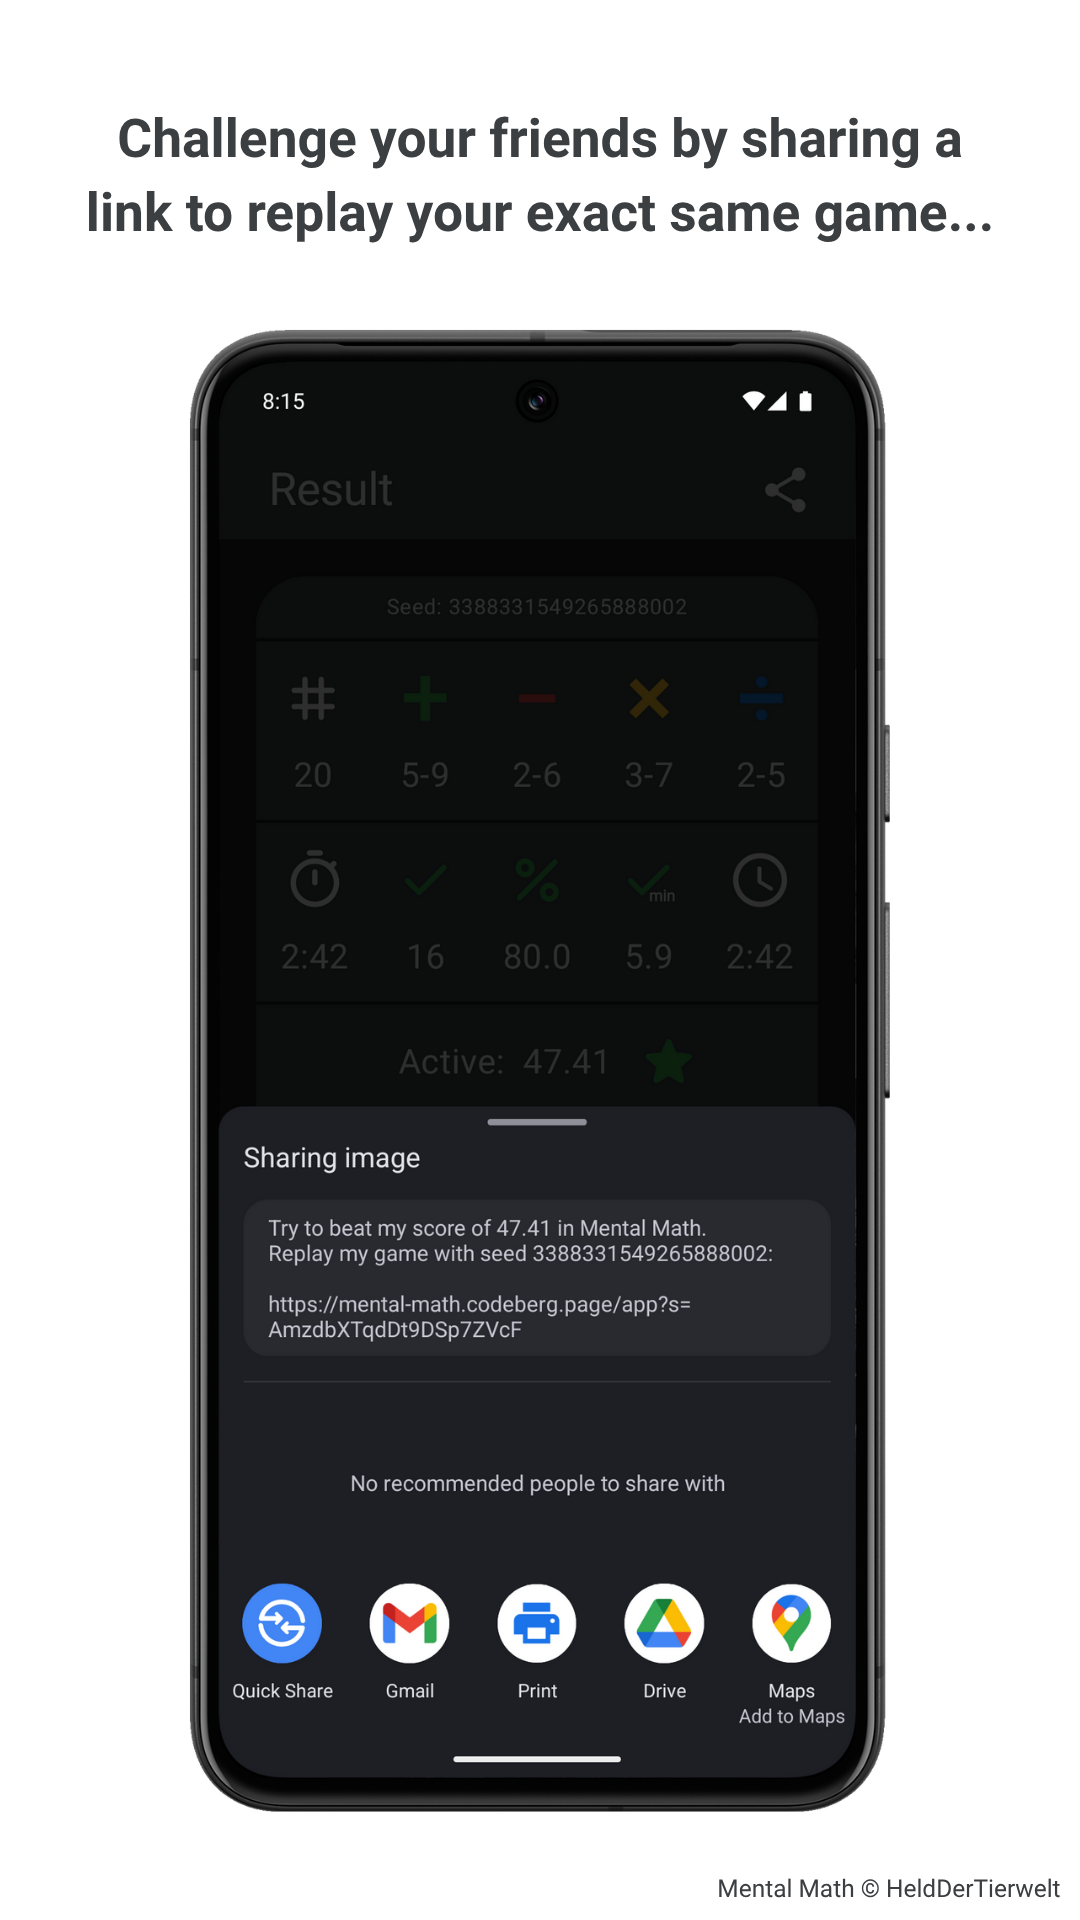
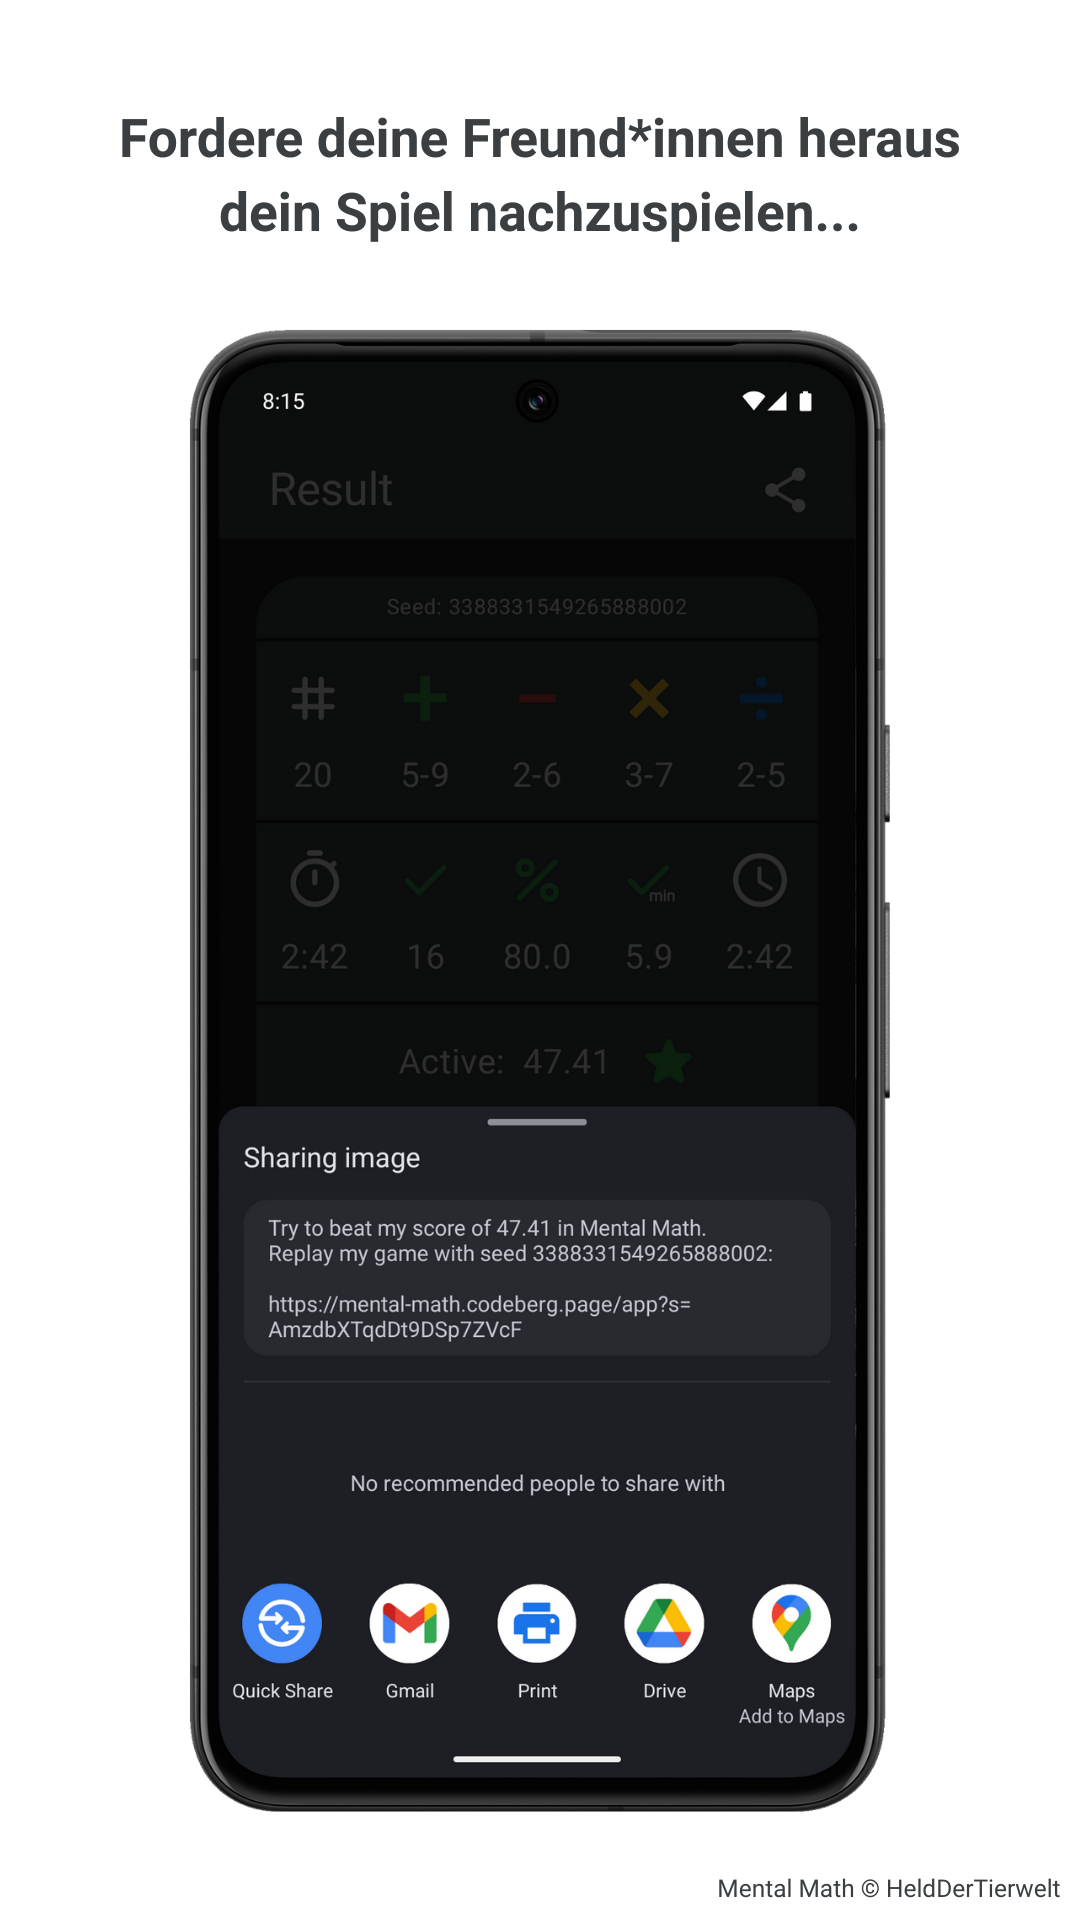
- save a game as cancelled when the app-session is destroyed, to prevent cheating - fixed a bug where the “Game Already Played”-PopUp would reappear during recomposition even though the dialog had been confirmed/canceled/dismissed before. - changed german full description - new screenshots for germa

Changed region(s): [[0.0611, 0.0625, 0.8861, 0.125]]

diff --git a/app/src/main/java/com/helddertierwelt/mentalmath/MainActivity.kt b/app/src/main/java/com/helddertierwelt/mentalmath/MainActivity.kt
@@ -63,12 +63,13 @@ class MainActivity : ComponentActivity() {
     private val settingsViewModel: SettingsViewModel by viewModels()
     private val statisticsViewModel: StatisticsViewModel by viewModels()
     private val mainActivityViewModel: MainActivityViewModel by viewModels()
-
-    private val gameRecordFromAppLink = mutableStateOf<GameRecord>(GameRecord())
+    private val gameRecordFromAppLink = mutableStateOf(GameRecord())
 
     override fun onCreate(savedInstanceState: Bundle?) {
         super.onCreate(savedInstanceState)
-        lifecycleScope.launch { handleDeepLinkIntent(intent) }
+        if (savedInstanceState == null) {
+            lifecycleScope.launch { handleDeepLinkIntent(intent) }
+        }
         enableEdgeToEdge(
             navigationBarStyle = SystemBarStyle.auto(
                 lightScrim = Color(0xFFEEEEEE).toArgb(),
@@ -134,7 +135,8 @@ class MainActivity : ComponentActivity() {
                                 launchSingleTop = true
                             }
                             gameViewModel.startGame(gameRecordFromAppLink.value.seed)
-                            dismissDeepLinkPopUp()
+                            gameRecordFromAppLink.value = GameRecord()
+                            mainActivityViewModel.setShowDeepLinkPopUp(false)
                         },
                         onCancel = { mainActivityViewModel.setShowDeepLinkPopUp(false) },
                         titleSize = titleFontSize,
@@ -157,6 +159,7 @@ class MainActivity : ComponentActivity() {
                     PopUp(
                         onDismissRequest = { mainActivityViewModel.setShowAlreadyPlayedPopUp(false) },
                         onConfirm = { mainActivityViewModel.setShowAlreadyPlayedPopUp(false) },
+                        onCancel = { mainActivityViewModel.setShowAlreadyPlayedPopUp(false) },
                         titleSize = titleFontSize,
                         descriptionSize = popUpDescriptionFontSize,
                         title = "Game already played",
@@ -193,10 +196,5 @@ class MainActivity : ComponentActivity() {
         } else {
             Log.d("DeepLink", "SettingsString is invalid or missing.")
         }
-    }
-
-    private fun dismissDeepLinkPopUp() {
-        mainActivityViewModel.setShowDeepLinkPopUp(false)
-        gameRecordFromAppLink.value = GameRecord()
     }
 }

diff --git a/app/src/main/java/com/helddertierwelt/mentalmath/presentation/viewmodel/game/GameViewModel.kt b/app/src/main/java/com/helddertierwelt/mentalmath/presentation/viewmodel/game/GameViewModel.kt
@@ -28,7 +28,6 @@ import com.helddertierwelt.mentalmath.data.entity.MathTask
 import com.helddertierwelt.mentalmath.data.repository.GameRecordRepository
 import com.helddertierwelt.mentalmath.data.repository.MathTaskRepository
 import com.helddertierwelt.mentalmath.presentation.viewmodel.settings.SettingsViewModel
-import com.helddertierwelt.mentalmath.presentation.viewmodel.game.TaskResult
 import dagger.hilt.android.lifecycle.HiltViewModel
 import kotlinx.coroutines.Dispatchers
 import kotlinx.coroutines.Job
@@ -394,6 +393,13 @@ class GameViewModel @Inject constructor(
     override fun onResume(owner: LifecycleOwner) {
         super.onResume(owner)
         resumeTimer()
+    }
+
+    override fun onDestroy(owner: LifecycleOwner) {
+        super.onDestroy(owner)
+        if (_gameState.value.isGameStarted) {
+            cancelGame()
+        }
     }
 
     private fun saveState(newState: GameState) {
